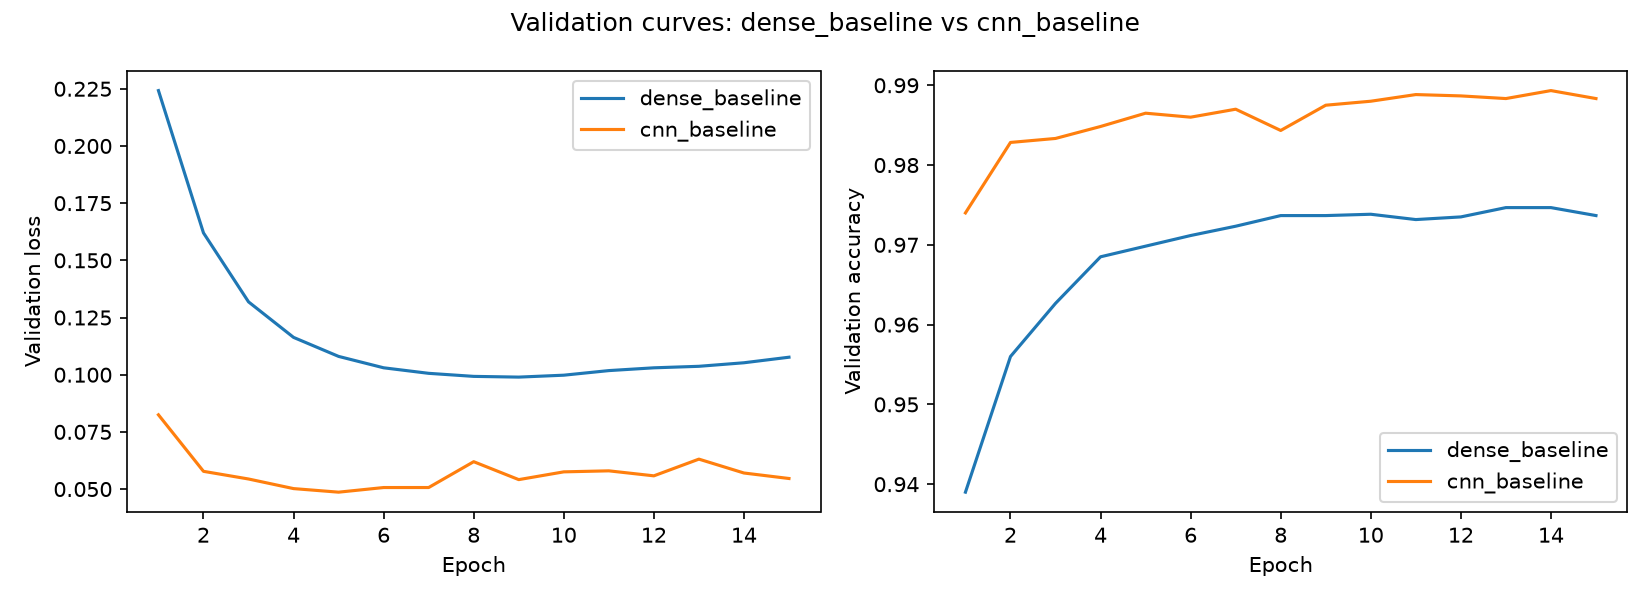
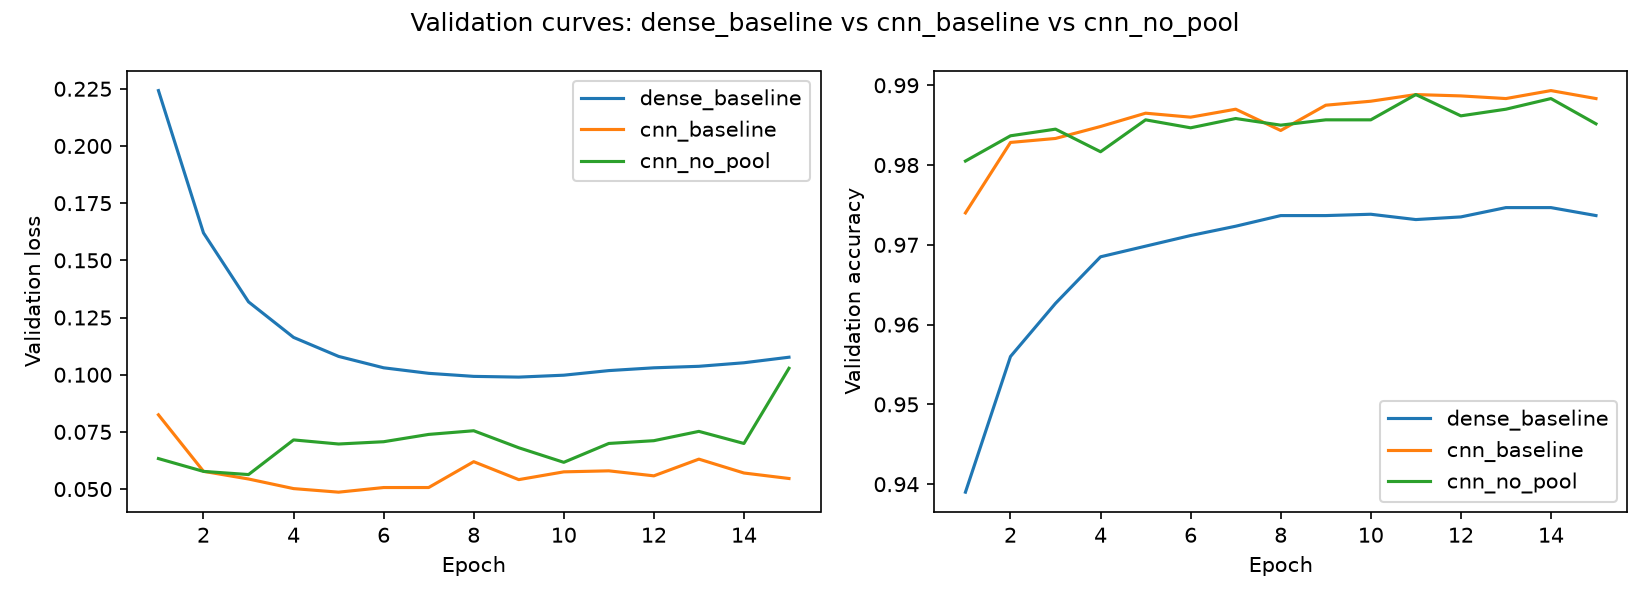
feat: add CNN comparison, reload check, seed stability and shift tests

diff --git a/src/models.py b/src/models.py
@@ -15,18 +15,17 @@ def build_dense_model(hidden_units=128):
         name="dense_baseline",
     )
 
-def build_cnn_model():
-    """Compact CNN: 2 x (conv -> max-pool), then a dense classification head."""
-    return keras.Sequential(
-        [
-            layers.Input(shape=(28, 28, 1)),
-            layers.Conv2D(32, (3, 3), activation="relu"),
-            layers.MaxPooling2D((2, 2)),
-            layers.Conv2D(64, (3, 3), activation="relu"),
-            layers.MaxPooling2D((2, 2)),
-            layers.Flatten(),
-            layers.Dense(128, activation="relu"),
-            layers.Dense(10, activation="softmax"),
-        ],
-        name="cnn_baseline",
-    )
+
+def build_cnn_model(use_pooling=True):
+    """Compact CNN: 2 x (conv [-> max-pool]), then a dense classification head."""
+    blocks = [layers.Input(shape=(28, 28, 1))]
+    for filters in (32, 64):
+        blocks.append(layers.Conv2D(filters, (3, 3), activation="relu"))
+        if use_pooling:
+            blocks.append(layers.MaxPooling2D((2, 2)))
+    blocks += [
+        layers.Flatten(),
+        layers.Dense(128, activation="relu"),
+        layers.Dense(10, activation="softmax"),
+    ]
+    return keras.Sequential(blocks, name="cnn_baseline" if use_pooling else "cnn_no_pool")

diff --git a/src/train_cnn.py b/src/train_cnn.py
@@ -26,6 +26,8 @@ def parse_args():
     p.add_argument("--epochs", type=int, default=15)
     p.add_argument("--batch-size", type=int, default=128)
     p.add_argument("--seed", type=int, default=SEED)
+    p.add_argument("--no-pool", action="store_true",
+                   help="ablation: remove both max-pooling layers")
     return p.parse_args()
 
 
@@ -45,7 +47,7 @@ def main():
         add_channel_axis(scale_pixels(x_train)), y_train
     )
 
-    model = build_cnn_model()
+    model = build_cnn_model(use_pooling=not args.no_pool)
     model.compile(
         optimizer=keras.optimizers.Adam(learning_rate=args.lr),
         loss="sparse_categorical_crossentropy",
@@ -81,7 +83,8 @@ def main():
         "preprocessing": "pixels / 255.0 -> float32 in [0, 1]; channel axis added -> (28, 28, 1)",
         "architecture": {
             "type": "cnn",
-            "blocks": "2 x (Conv2D 3x3 ReLU -> MaxPool 2x2); filters 32, 64",
+            "blocks": "2 x Conv2D 3x3 ReLU; filters 32, 64",
+            "pooling": "none" if args.no_pool else "max 2x2 after each conv",
             "head": "Flatten -> Dense(128, ReLU) -> Dense(10, softmax)",
             "padding": "valid",
         },

diff --git a/results/week6_notes.md b/results/week6_notes.md
@@ -1,0 +1,82 @@
+# Week 6 Notes: CNN Design and Comparison
+
+## 1. Architecture and rationale
+- Layer table (output shapes + parameters) - hand-calculated, verified against model_summary.txt
+- Why conv + ReLU + pool + dense head; why (28, 28, 1) input and 10 outputs
+
+## 2. Training protocol
+- Same split, seed, optimiser, batch size, epochs and selection rule as the dense baseline
+
+## 3. Results (validation, measured)
+| Run | Params | Train s | Best epoch | Val loss | Val acc | Val errors | Latency (ms) |
+|---|---|---|---|---|---|---|---|
+| dense_baseline |101,770|20.4|9|0.0989|0.9737|158|0.0253 |
+| cnn_baseline |225,034 |188.7 |5 |0.0486 |0.9865 |81 |0.0755 |
+| cnn_no_pool (optional) |4,738,826 |880.8 |3 |0.0563 |0.9845 |93 |0.1879 |
+
+## 4. Observations from the plots (at least two, grounded in the figures)
+1.
+2.
+
+## 5. Stability across seeds
+- Mean, std, min-max for both models; do the ranges overlap?
+
+## 6. Translation test
+- Dense vs CNN at shifts of +-1, +-2, +-4; what it does and does not show
+
+## 7. Trade-offs: accuracy vs complexity vs latency
+
+All values are measured on the same 6,000 validation images (seed 42, single run per model). Ratios and percentages are calculated from the measured values.
+
+### Comparison table
+
+| Metric | Dense baseline | CNN baseline | CNN vs dense | CNN (no pooling) | No-pool vs CNN |
+|---|---|---|---|---|---|
+| Validation accuracy | 97.37% | 98.65% | +1.28 points | 98.45% | -0.20 points |
+| Validation errors (of 6,000) | 158 | 81 | 77 fewer (about 49%) | 93 | 12 more |
+| Validation loss | 0.0989 | 0.0486 | about 51% lower | 0.0563 | about 16% higher |
+| Parameters | 101,770 | 225,034 | 2.2x | 4,738,826 | 21.1x |
+| Training time | 20.4 s | 188.7 s | 9.3x | 880.8 s | 4.7x |
+| Latency, single image | 6.19 ms | 22.42 ms | 3.6x | 93.66 ms | 4.2x |
+| Latency, batch (per image) | 0.0253 ms | 0.0755 ms | 3.0x | 0.1879 ms | 2.5x |
+| Best epoch | 9 | 5 | | 3 | |
+
+### Accuracy
+
+The CNN made 81 errors against the dense model's 158, so it roughly halved the number of mistakes. The accuracy change looks small (97.37% to 98.65%), but in terms of errors it is a large improvement. Validation loss also fell by about half, so the CNN assigns better scores to the correct class, not only more correct labels.
+
+### Complexity
+
+The CNN has about 2.2x as many parameters as the dense model but took about 9x longer to train (188.7 s vs 20.4 s). Parameter count therefore understates the CNN's computational cost. Convolution reuses each small kernel at every image position, which keeps the parameter count low, but every reuse is a computation.
+
+### Latency
+
+The CNN was about 3.6x slower on a single image (22.42 ms vs 6.19 ms) and about 3x slower in batches. Both are small in absolute terms for a one-image app, but the relative cost is clear. Timings were measured on my CPU only, and the single-image figures include Keras call overhead.
+
+### Pooling ablation
+
+Removing both max-pooling layers (nothing else changed) made the model larger, slower and no better.
+
+- The flatten layer received 24 x 24 x 64 = 36,864 values instead of 5 x 5 x 64 = 1,600, so the dense layer grew enormously and parameters rose about 21x.
+- Training was about 4.7x slower and single-image latency about 4.2x higher.
+- Accuracy was slightly lower (93 vs 81 errors) and validation loss was higher.
+
+In this experiment, keeping full spatial resolution gave no measurable benefit, while pooling cut the cost sharply. Pooling trades spatial detail for lower computation and some tolerance to small shifts.
+
+### Overall
+
+For MNIST the pooled CNN is the better trade-off. About 9x the training time and 3.6x the single-image latency buy roughly half the errors, and the absolute latency is still small for a one-image application. The no-pooling model costs far more and returns nothing measurable.
+
+### Caveats
+
+- **Single seed.** The 12-error gap between the pooled and no-pool CNN is within plausible random variation, so the data supports "removing pooling gave no benefit and cost a lot", not "pooling improves accuracy". The 77-error gap between dense and CNN is much larger; see Section 5 for the multi-seed ranges.
+- **Validation data used for selection.** The best epoch was chosen on this same set, so these numbers are slightly optimistic. Final test results come in Week 7.
+- **Early best epochs.** The CNN peaked at epoch 5 and the no-pool model at epoch 3 of 15, which suggests overfitting in later epochs (confirm in the learning curves). Recorded training times include these unnecessary later epochs.
+- **Timing noise.** Training time and latency depend on other programs running during measurement.
+- **Hardware.** All timings are CPU-only on a single machine.
+
+## 8. Reload verification
+- What was checked, and the result
+
+## 9. Limitations
+- Validation-only; 4 seeds; latency measured on one CPU; shifts are exploratory
